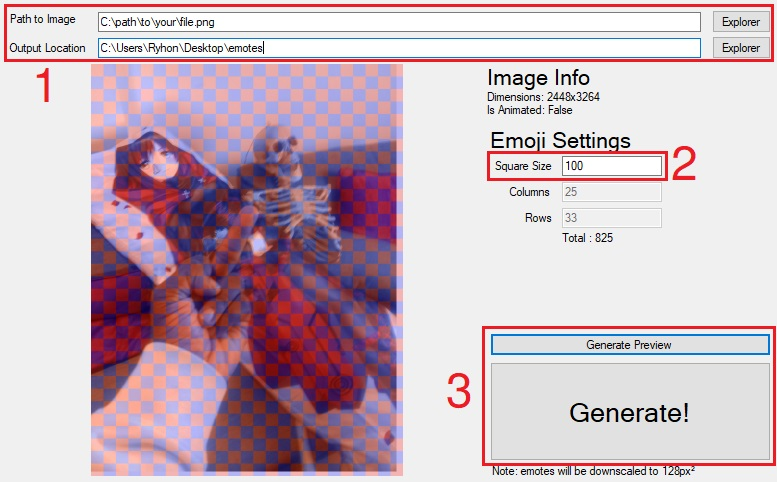
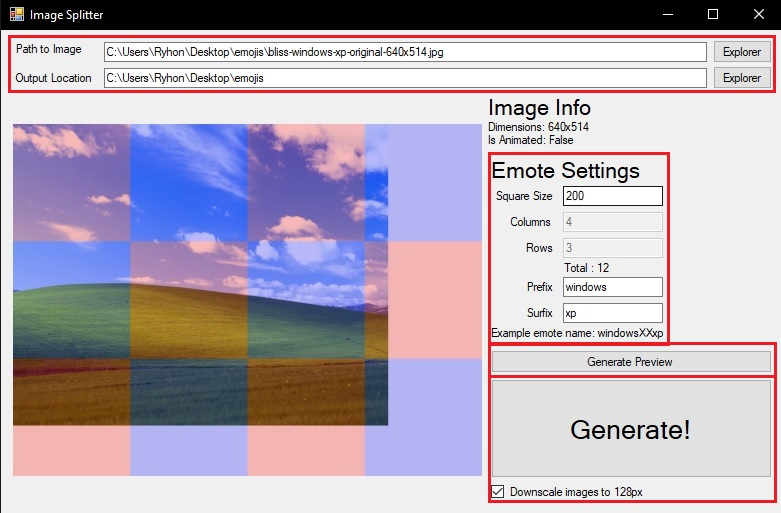
Updated Readme

diff --git a/README.md b/README.md
@@ -18,8 +18,9 @@ ImageSplitter is available for Windows and Linux/MacOS by using [Wine](https://w
 * Generate your images
     ![](generate.jpg)
     * Enter the path for the image and output loaction
-    * Set the square size and adjust it
-    * Generate preview or generate your images
+    * Set the square size and the prefix or surfix
+    * Generate preview to preview how the emotes will look
+    * Generate your emotes, optionally you can disable downscaling (128px is the max emote size on Discord)
 
 * Add the emotes to your Discord server, you can use `emotes.txt` to paste them quickly into chat
 
